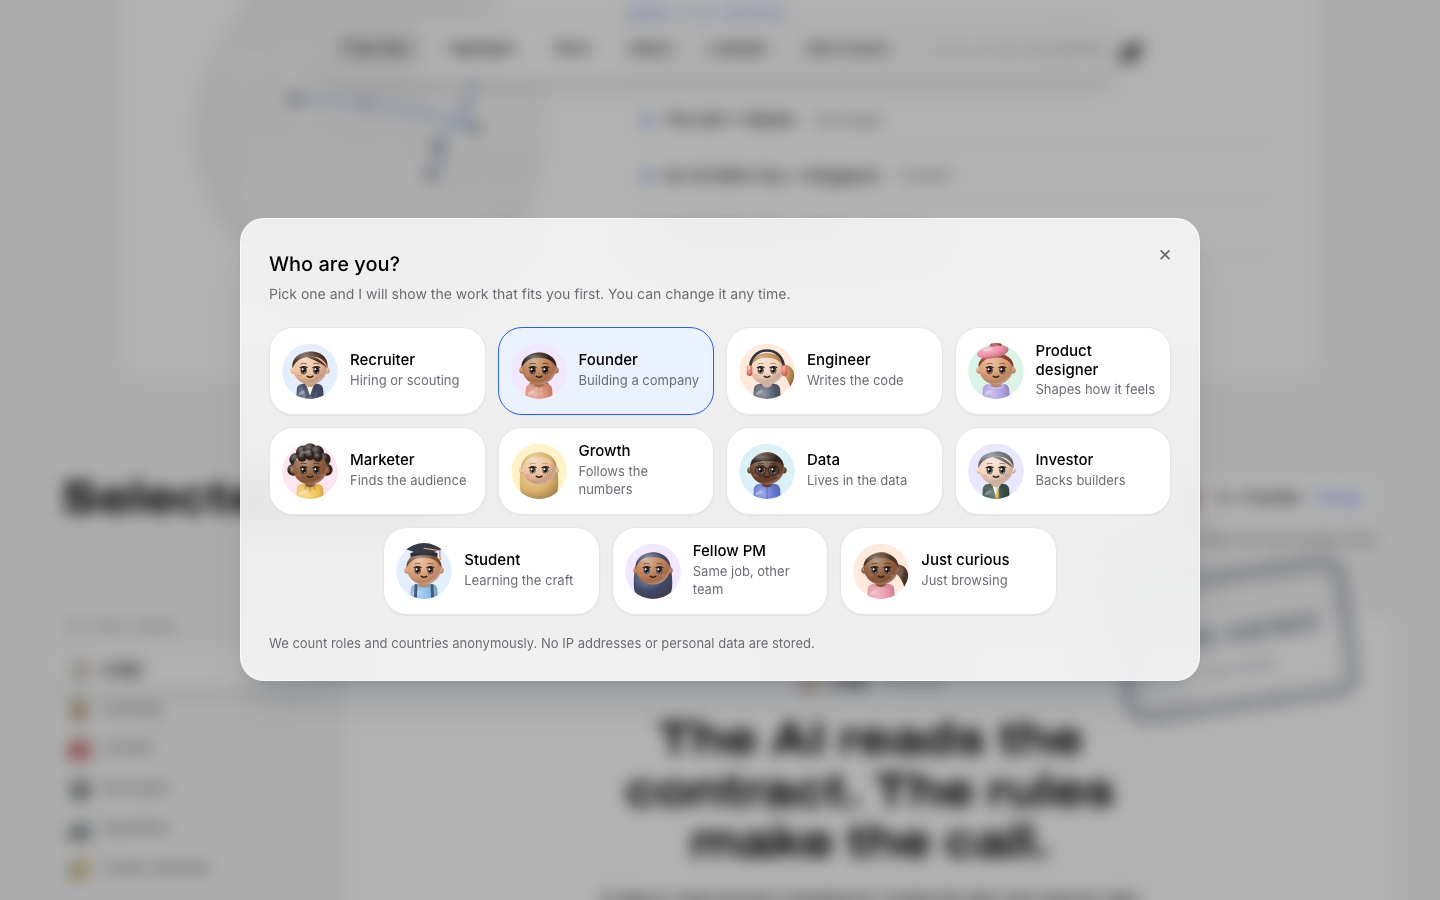
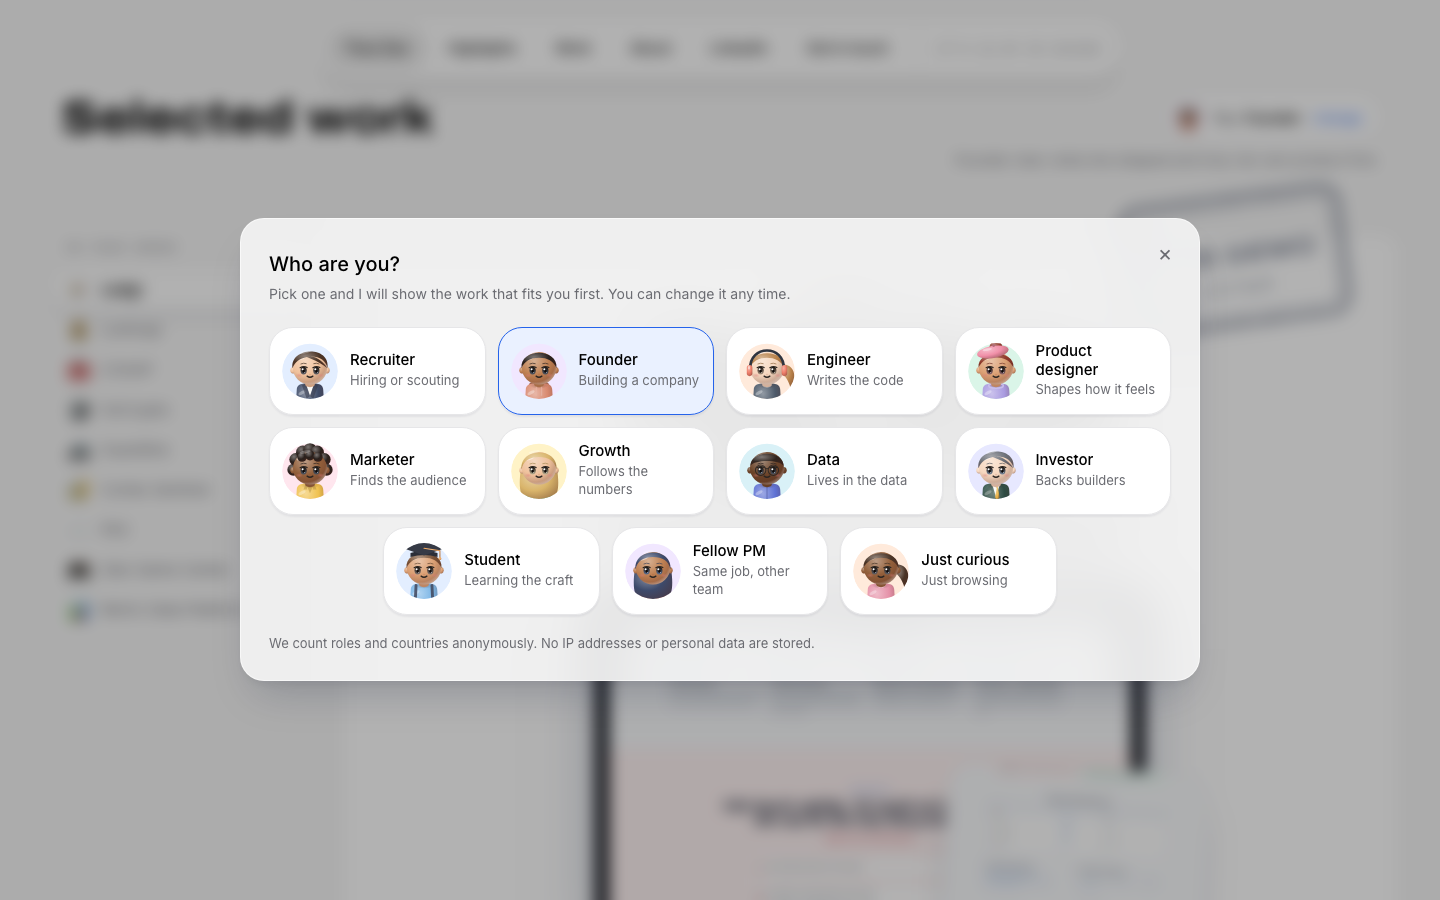
fix(visitor): role tiles give the character its own area (head inside the tile) with the label below it

diff --git a/src/components/site/visitor/role-tile.tsx b/src/components/site/visitor/role-tile.tsx
@@ -26,7 +26,6 @@ type Props = {
   /** True when the pick came from the keyboard (Enter / Space), false for a pointer or touch. */
   onSelect: (viaKeyboard: boolean) => void;
   /** Fills two grid columns, so the grid has no dead cell. */
-  wide?: boolean;
   /** Phone, after a pick: a small avatar-only tile (the name stays as the accessible label). */
   mini?: boolean;
   onKeyDown: (event: React.KeyboardEvent<HTMLButtonElement>) => void;
@@ -60,11 +59,11 @@ function Count({ id, count, className }: { id: RoleId | null; count?: number; cl
 
 /**
  * One radio in the picker. Unpicked: a soft rounded tile with the clay bust
- * popping out over its top edge. Picked: the same element grows into the big hero
+ * in its own area at the top (head fully inside) and the label below it, never overlapping. Picked: the same element grows into the big hero
  * (full figure, waving, role name, one-line note). Every tile is a layout
  * element, so picking glides the grid into its new shape on a spring.
  */
-export function RoleTile({ id, label, blurb, index, selected, tabbable, count, wide, mini, onSelect, onKeyDown, buttonRef }: Props) {
+export function RoleTile({ id, label, blurb, index, selected, tabbable, count, mini, onSelect, onKeyDown, buttonRef }: Props) {
   const reduce = useReducedMotion();
   const blinking = useBlink(!reduce);
   const frame = useWaveFrame(selected && !reduce);
@@ -72,7 +71,7 @@ export function RoleTile({ id, label, blurb, index, selected, tabbable, count, w
   const transition = reduce ? { duration: 0 } : SPRING.sheet;
 
   return (
-    <motion.div layout transition={transition} className={cn("min-w-0", selected && "order-first col-span-full sm:col-span-5 lg:col-span-1 lg:row-span-2", wide && !selected && "col-span-2")}>
+    <motion.div layout transition={transition} className={cn("min-w-0", selected && "order-first col-span-full sm:col-span-5 lg:col-span-1 lg:row-span-2")}>
       {selected ? (
         <button
           ref={buttonRef}
@@ -120,21 +119,22 @@ export function RoleTile({ id, label, blurb, index, selected, tabbable, count, w
             initial="rest"
             whileHover="hover"
             style={{ background: soft(tint, 46) }}
-            className={cn("relative flex h-full min-h-[104px] w-full flex-col items-center justify-end gap-0.5 rounded-3xl border border-hairline px-1 pt-[56px] pb-2 sm:min-h-[138px] sm:gap-1 sm:px-1.5 sm:pt-[66px] sm:pb-2.5 text-center outline-none transition-colors duration-[120ms] focus-visible:ring-2 focus-visible:ring-accent focus-visible:ring-offset-2", mini && "max-sm:min-h-[72px] max-sm:rounded-2xl max-sm:pt-[60px] max-sm:pb-1")}
+            className={cn("relative flex h-full w-full flex-col items-center justify-start gap-1 overflow-hidden rounded-3xl border border-hairline px-1 pt-3 pb-2.5 sm:gap-1.5 sm:px-1.5 sm:pt-4 sm:pb-3 text-center outline-none transition-colors duration-[120ms] focus-visible:ring-2 focus-visible:ring-accent focus-visible:ring-offset-2", mini && "max-sm:rounded-2xl max-sm:pt-2 max-sm:pb-0")}
           >
             <motion.span
-              variants={reduce ? undefined : { rest: { y: 0, scale: 1, rotate: 0 }, hover: { y: -7, scale: 1.07, rotate: -2 } }}
+              variants={reduce ? undefined : { rest: { y: 0, scale: 1, rotate: 0 }, hover: { y: -2, scale: 1.04, rotate: -2 } }}
               transition={reduce ? { duration: 0 } : SPRING.ui}
-              className="pointer-events-none absolute -top-4 left-1/2 block -translate-x-1/2 sm:-top-7"
+              className="pointer-events-none block origin-bottom"
             >
-              <span className="block sm:hidden">
-                <ClayAvatar role={id} view="bust" size={56} decorative className={id ? undefined : "mt-5 text-ink-3"} />
+              {/* The bust's torso draws below its svg box (overflow visible): reserve that space so the label never sits on it. */}
+              <span className="block pb-5 sm:hidden">
+                <ClayAvatar role={id} view="bust" size={52} decorative className={id ? undefined : "text-ink-3"} />
               </span>
-              <span className="hidden sm:block">
-                <ClayAvatar role={id} view="bust" size={84} decorative className={id ? undefined : "mt-7 text-ink-3"} />
+              <span className="hidden pb-6 sm:block">
+                <ClayAvatar role={id} view="bust" size={72} decorative className={id ? undefined : "text-ink-3"} />
               </span>
             </motion.span>
-            <span className={cn("relative text-[12px] leading-tight font-medium text-ink-1 sm:text-[13px]", mini && "max-sm:sr-only")}>{label}</span>
+            <span className={cn("relative mt-auto text-[12px] leading-tight font-medium text-ink-1 sm:text-[13px]", mini && "max-sm:sr-only")}>{label}</span>
             <Count id={id} count={count} className={mini ? "max-sm:hidden" : undefined} />
           </motion.button>
         </LiftCard>

diff --git a/tests/e2e/visitor-picker.spec.ts b/tests/e2e/visitor-picker.spec.ts
@@ -339,6 +339,22 @@ test.describe("top picker layout", () => {
       const lastY = boxes[10].y;
       const last = boxes.filter((b) => Math.abs(b.y - lastY) < 2);
       expect(Math.abs(last[0].x - g!.x - (g!.x + g!.width - last[last.length - 1].right))).toBeLessThanOrEqual(2);
+      // Each character sits inside its tile, and its label sits below it on the tile background.
+      const clash = await strip.locator('[role="radio"]').evaluateAll((btns) =>
+        btns.flatMap((b) => {
+          const t = b.getBoundingClientRect();
+          // The drawn figure, not the svg box: the bust overflows its box, so union every painted shape of the visible variant.
+          const svg = [...b.querySelectorAll("svg")].find((v) => v.getBoundingClientRect().width > 0)!;
+          const shapes = [...svg.querySelectorAll("path,circle,ellipse,rect")].map((n) => n.getBoundingClientRect()).filter((r) => r.width > 0);
+          const fig = { top: Math.min(...shapes.map((r) => r.top)), bottom: Math.max(...shapes.map((r) => r.bottom)) };
+          const label = [...b.querySelectorAll("span")].find((s) => !s.querySelector("*") && s.textContent?.trim())!.getBoundingClientRect();
+          const out: string[] = [];
+          if (fig.top < t.top - 0.5) out.push(`${b.dataset.testid}: head above tile`);
+          if (label.top < fig.bottom - 0.5) out.push(`${b.dataset.testid}: label over figure`);
+          return out;
+        }),
+      );
+      expect(clash).toEqual([]);
       await page.getByTestId("section-visitor").screenshot({ path: `process/features/portfolio-site/active/autoresearch-ux-261004_04-10-26/research/R8-shots/picker-unpicked-${vp.width}.png` });
       await page.getByTestId("tile-founder").click();
       await expect(chip(page)).toContainText("You: Founder");
